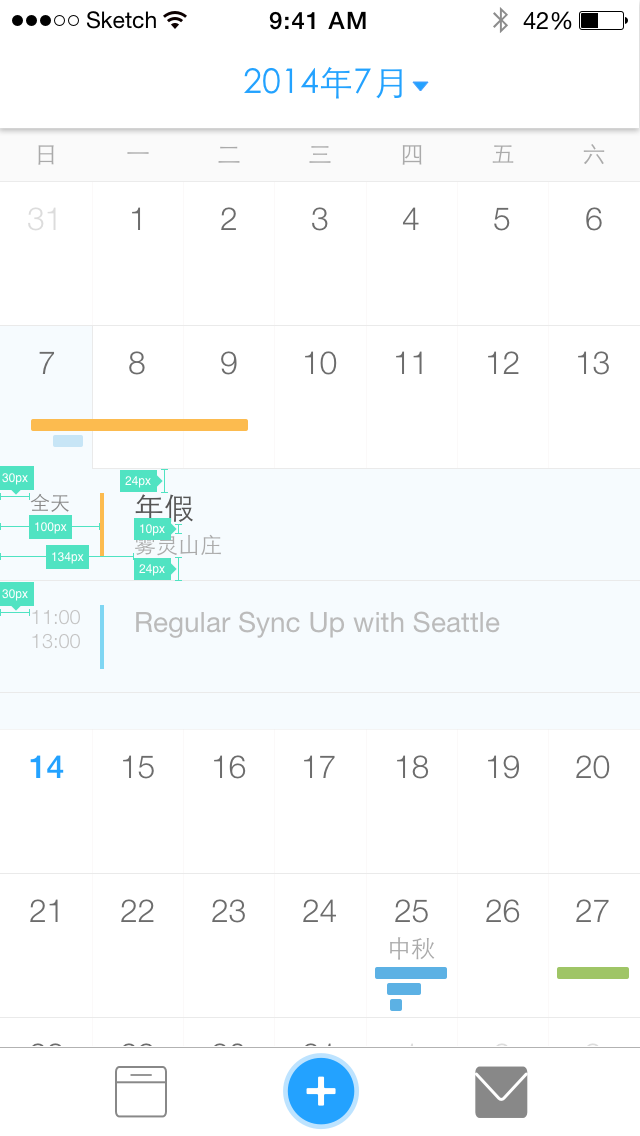
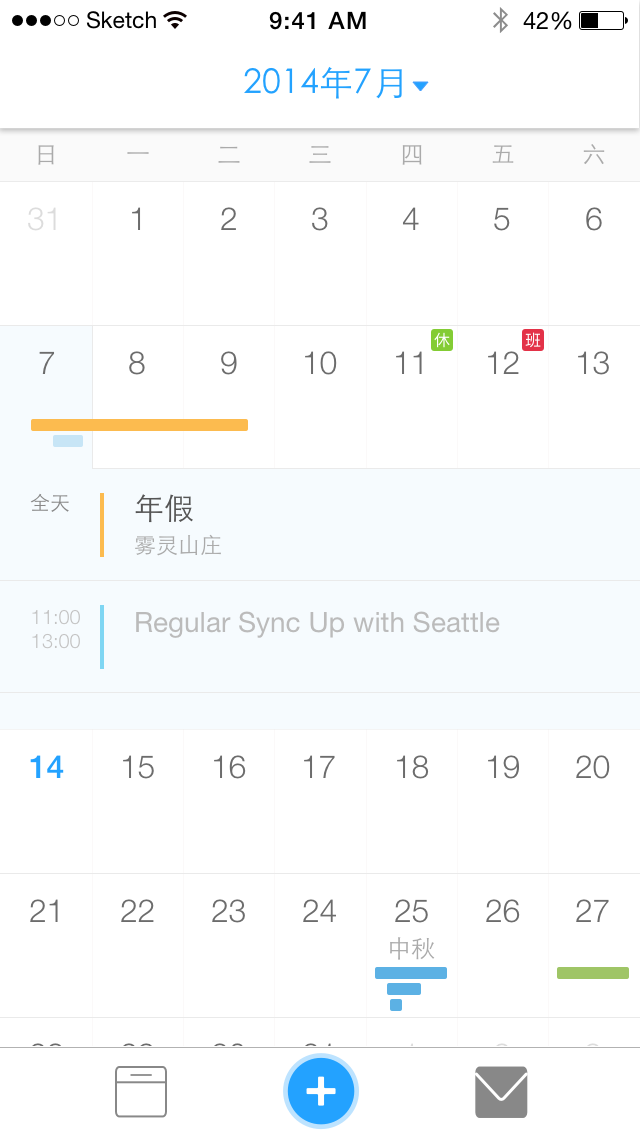
update calendar

diff --git a/project/prd/calendar.html b/project/prd/calendar.html
@@ -26,7 +26,7 @@
 		<div class="main">
 			<div class="light small meta">
 				<p>版本：1.0</p>
-				<p>更新：2014-9-10</p>
+				<p>更新：2014-9-12</p>
 			</div>
 
 			<h1>日历视图产品需求文档</h1>
@@ -97,6 +97,7 @@
 					<li>显示重要的公历节日，例如国庆，五一</li>
 					<li>显示农历的初一和十五：比如“八月初一”显示为“八月”；“七月二十五”显示为“廿五”</li>
 				</ul>
+				<li><strong class="red">显示班休状态</strong></li>
 
 
 			</ol>
